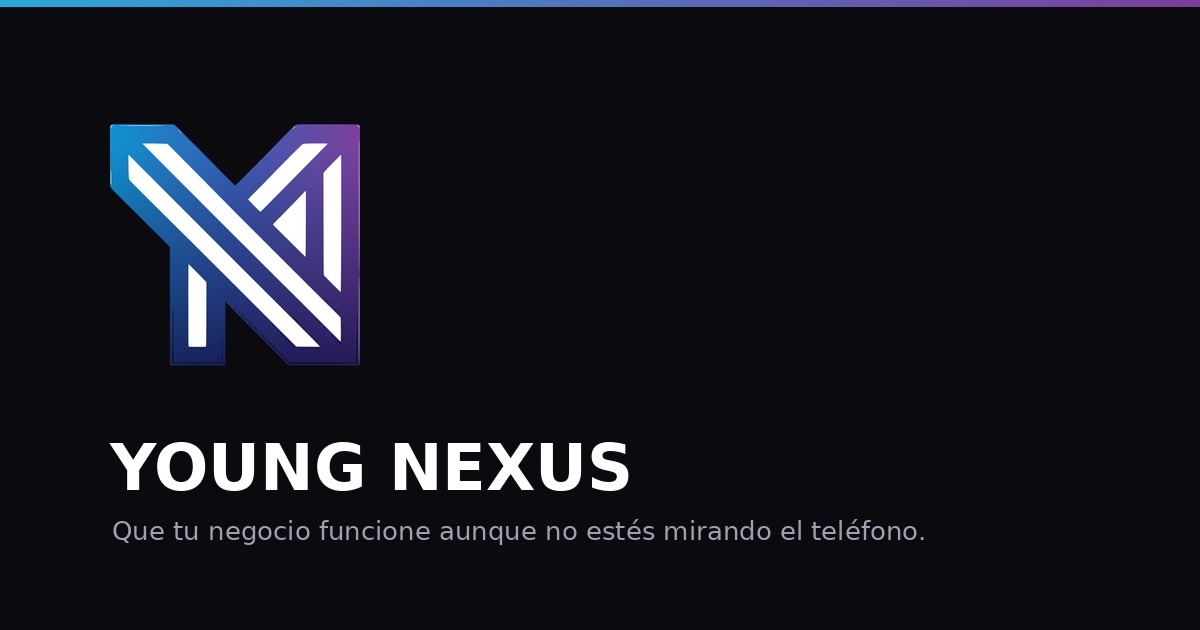
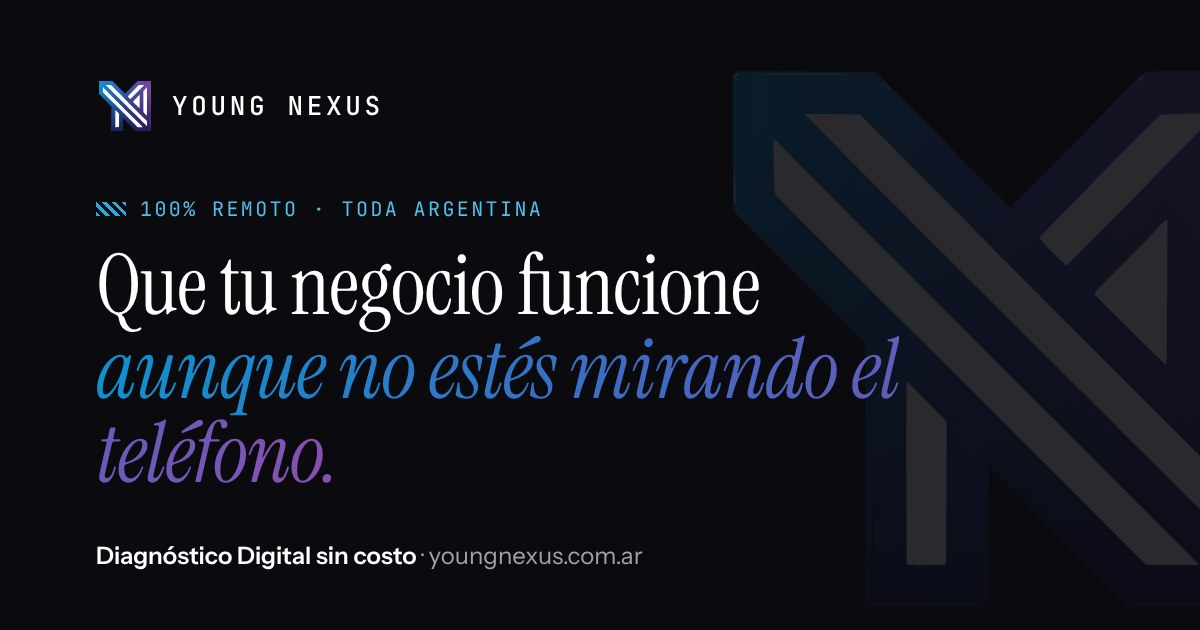
Branding: imagen para compartir con la nueva identidad, degradé accesible y precarga de la itálica
- young-nexus-og.jpg (vista previa en WhatsApp, Instagram, LinkedIn) rehecha con las letras y el motivo del logo
- Degradé del título con contraste mínimo 3:1 y con color de respaldo si el navegador no soporta texto con degradé
- Precarga de Instrument Serif itálica (se ve en la primera pantalla)

Claude-Session: https://claude.ai/code/session_015a7i5BCBVB7KAFRLJzsWZs

diff --git a/index.html b/index.html
@@ -19,6 +19,7 @@
 <meta name="twitter:card" content="summary_large_image">
 <link rel="preload" href="/fonts/instrument-sans-var.woff2" as="font" type="font/woff2" crossorigin>
 <link rel="preload" href="/fonts/instrument-serif-400.woff2" as="font" type="font/woff2" crossorigin>
+<link rel="preload" href="/fonts/instrument-serif-italic.woff2" as="font" type="font/woff2" crossorigin>
 <style>
   /* Tipografias alojadas en el propio sitio (licencia SIL OFL, ver /fonts). */
   @font-face{font-family:'Instrument Serif'; font-style:normal; font-weight:400; font-display:swap; src:url(/fonts/instrument-serif-400.woff2) format('woff2');}
@@ -127,7 +128,8 @@
   .quiz-result .btn-primary{display:inline-block; text-align:center;}
   .quiz-note{font-size:12.5px; color:var(--text-dim); margin-top:12px;}
   .hero h1{font-size:clamp(38px,6vw,68px); line-height:1.02; max-width:800px; margin-bottom:22px;}
-  .hero h1 em{font-family:'Instrument Serif', Georgia, serif; font-style:italic; font-weight:400; font-size:1.04em; letter-spacing:0; color:var(--electric-soft); background:linear-gradient(90deg,#0F91CF,#3A5DB5 55%,#7B409C); -webkit-background-clip:text; background-clip:text; -webkit-text-fill-color:transparent;}
+  .hero h1 em{font-family:'Instrument Serif', Georgia, serif; font-style:italic; font-weight:400; font-size:1.04em; letter-spacing:0; color:var(--electric-soft);}
+  @supports ((-webkit-background-clip:text) or (background-clip:text)){ .hero h1 em{background:linear-gradient(90deg,#0F91CF,#4268C2 55%,#8A4FB0); -webkit-background-clip:text; background-clip:text; -webkit-text-fill-color:transparent;} }
   .hero p{font-size:18px; color:var(--text-dim); max-width:540px; margin-bottom:34px;}
   .hero-ctas{display:flex; gap:16px; flex-wrap:wrap;}
   .trust{margin-top:22px;}
